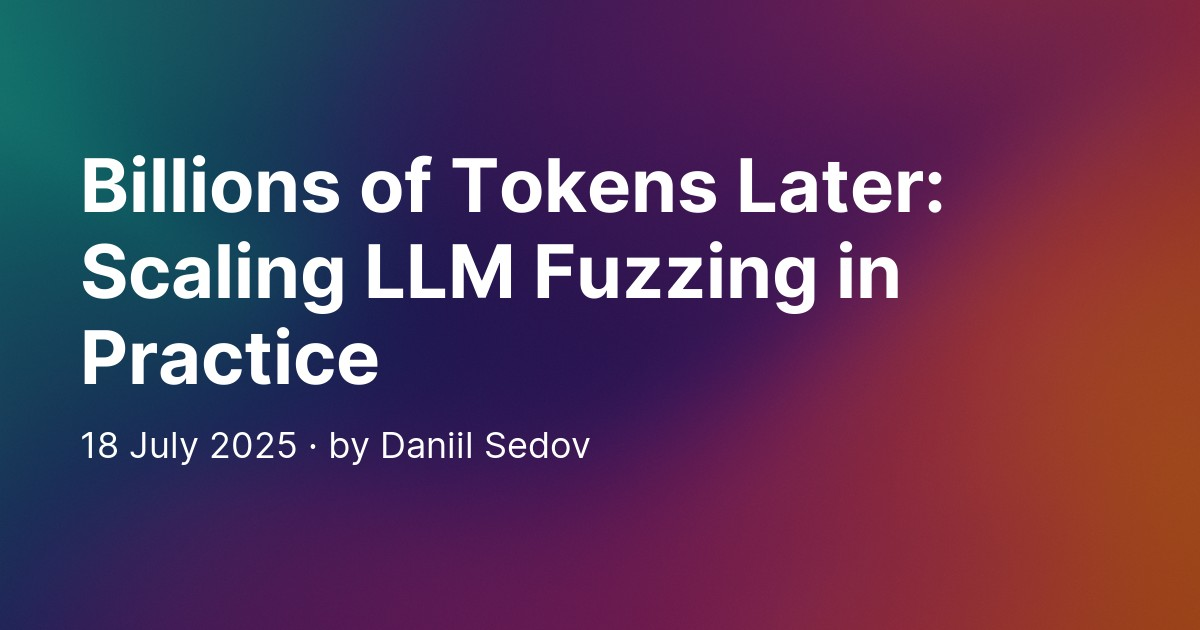
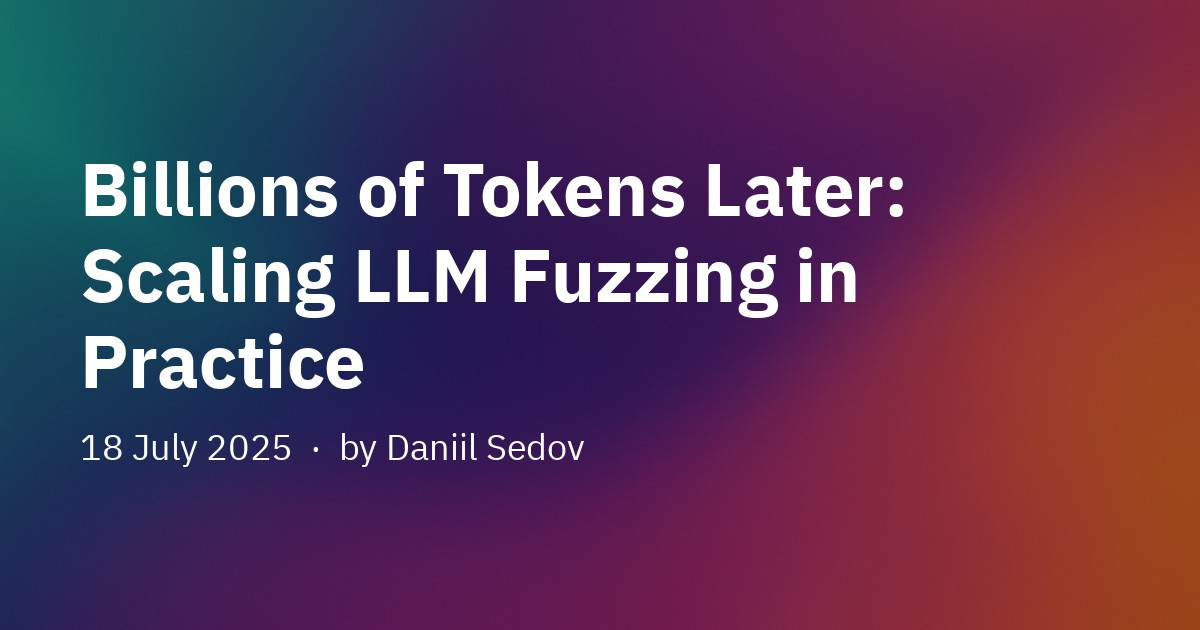
fix: previews generation

Changed region(s): [[0.0617, 0.2413, 0.8017, 0.5127], [0.0617, 0.6635, 0.4933, 0.754], [0.0617, 0.5127, 0.3392, 0.6333]]

diff --git a/generate_blog.py b/generate_blog.py
@@ -26,6 +26,7 @@ except ImportError as e:
     print(f"  pip3 install markdown pillow")
     sys.exit(1)
 
+
 # ------------------------------------------------------------------
 # Constants
 # ------------------------------------------------------------------
@@ -46,8 +47,8 @@ PREVIEW_STRIPE_SPACING = 70
 PREVIEW_STRIPE_BLUR = 4
 PREVIEW_BG_DIM_ALPHA = 0.35
 
-INTER_BOLD = pathlib.Path("~/Library/Fonts/Inter-Bold.ttf").expanduser()
-INTER_REGULAR = pathlib.Path("~/Library/Fonts/Inter-Regular.ttf").expanduser()
+IBM_PLEX_BOLD = pathlib.Path("~/Library/Fonts/IBMPlexSans-Bold.ttf").expanduser()
+IBM_PLEX_REGULAR = pathlib.Path("~/Library/Fonts/IBMPlexSans-Regular.ttf").expanduser()
 
 # ------------------------------------------------------------------
 # Frontmatter Parser
@@ -138,7 +139,7 @@ def generate_preview(title: str, date_str: str, output_path: pathlib.Path, bg_pa
     """Generate preview image for a blog post."""
     # Format footer
     date = datetime.strptime(date_str, "%Y-%m-%d")
-    footer = f"{date.strftime('%d %B %Y')} · by Daniil Sedov"
+    footer = f"{date.strftime('%d %B %Y')}  ·  by Daniil Sedov"
     
     # Build background
     bg_full_path = None
@@ -151,8 +152,8 @@ def generate_preview(title: str, date_str: str, output_path: pathlib.Path, bg_pa
     img = build_background(bg_full_path)
     draw = ImageDraw.Draw(img)
 
-    f_title = must_font(INTER_BOLD, PREVIEW_TITLE_SIZE)
-    f_footer = must_font(INTER_REGULAR, PREVIEW_FOOT_SIZE)
+    f_title = must_font(IBM_PLEX_BOLD, PREVIEW_TITLE_SIZE)
+    f_footer = must_font(IBM_PLEX_REGULAR, PREVIEW_FOOT_SIZE)
 
     max_w = PREVIEW_WIDTH - 2 * PREVIEW_PADDING_X
     lines = list(wrap(title, f_title, max_w, draw))
@@ -174,12 +175,8 @@ def generate_preview(title: str, date_str: str, output_path: pathlib.Path, bg_pa
 def process_markdown_content(content: str) -> str:
     """Convert markdown to HTML with proper formatting."""
     # Configure markdown extensions
-    md = markdown.Markdown(extensions=[
-        'fenced_code',
-        'tables',
-        'attr_list',
-        'md_in_html'
-    ])
+    extensions = ['tables', 'attr_list', 'md_in_html', 'fenced_code']
+    md = markdown.Markdown(extensions=extensions)
     
     html = md.convert(content)
     
@@ -360,13 +357,12 @@ def process_blog_post(slug: str, force: bool = False):
         print(f"  ⚠ Warning: No frontmatter found in {markdown_file}")
         return None
     
-    # Convert markdown to HTML
-    html_content = process_markdown_content(markdown_content)
-    
     # Output directory should already exist since markdown is there
     output_dir.mkdir(parents=True, exist_ok=True)
     
     # Generate HTML
+    html_content = process_markdown_content(markdown_content)
+    
     with open(TEMPLATE_FILE, 'r', encoding='utf-8') as f:
         template = f.read()
     

diff --git a/blog/measuring-llm-entropy/measuring-llm-entropy.md b/blog/measuring-llm-entropy/measuring-llm-entropy.md
@@ -3,6 +3,7 @@ title: Measuring and Analyzing Entropy in Large Language Models
 date: 2025-03-11
 datetime: 2025-03-11T12:32:51+03:00
 description: A detailed benchmarking study exploring entropy and randomness across 52 large language models using diverse prompting strategies, revealing notable biases and significant variability influenced by model architectures and prompt engineering.
+background: background.png
 ---
 
 ## Introduction

diff --git a/blog/billions-of-tokens-later/billions-of-tokens-later.md b/blog/billions-of-tokens-later/billions-of-tokens-later.md
@@ -4,6 +4,7 @@ date: 2025-07-18
 datetime: 2025-07-18T09:30:00+03:00
 description: Lessons learned from scaling documentation-driven black-box fuzzing pipelines to billions of tokens, practical deduplication strategies, discovered scaling laws, and initial explorations into white-box fuzzing for future expansion.
 theme_aware_images: true
+background: background.png
 ---
 
 ## Introduction
